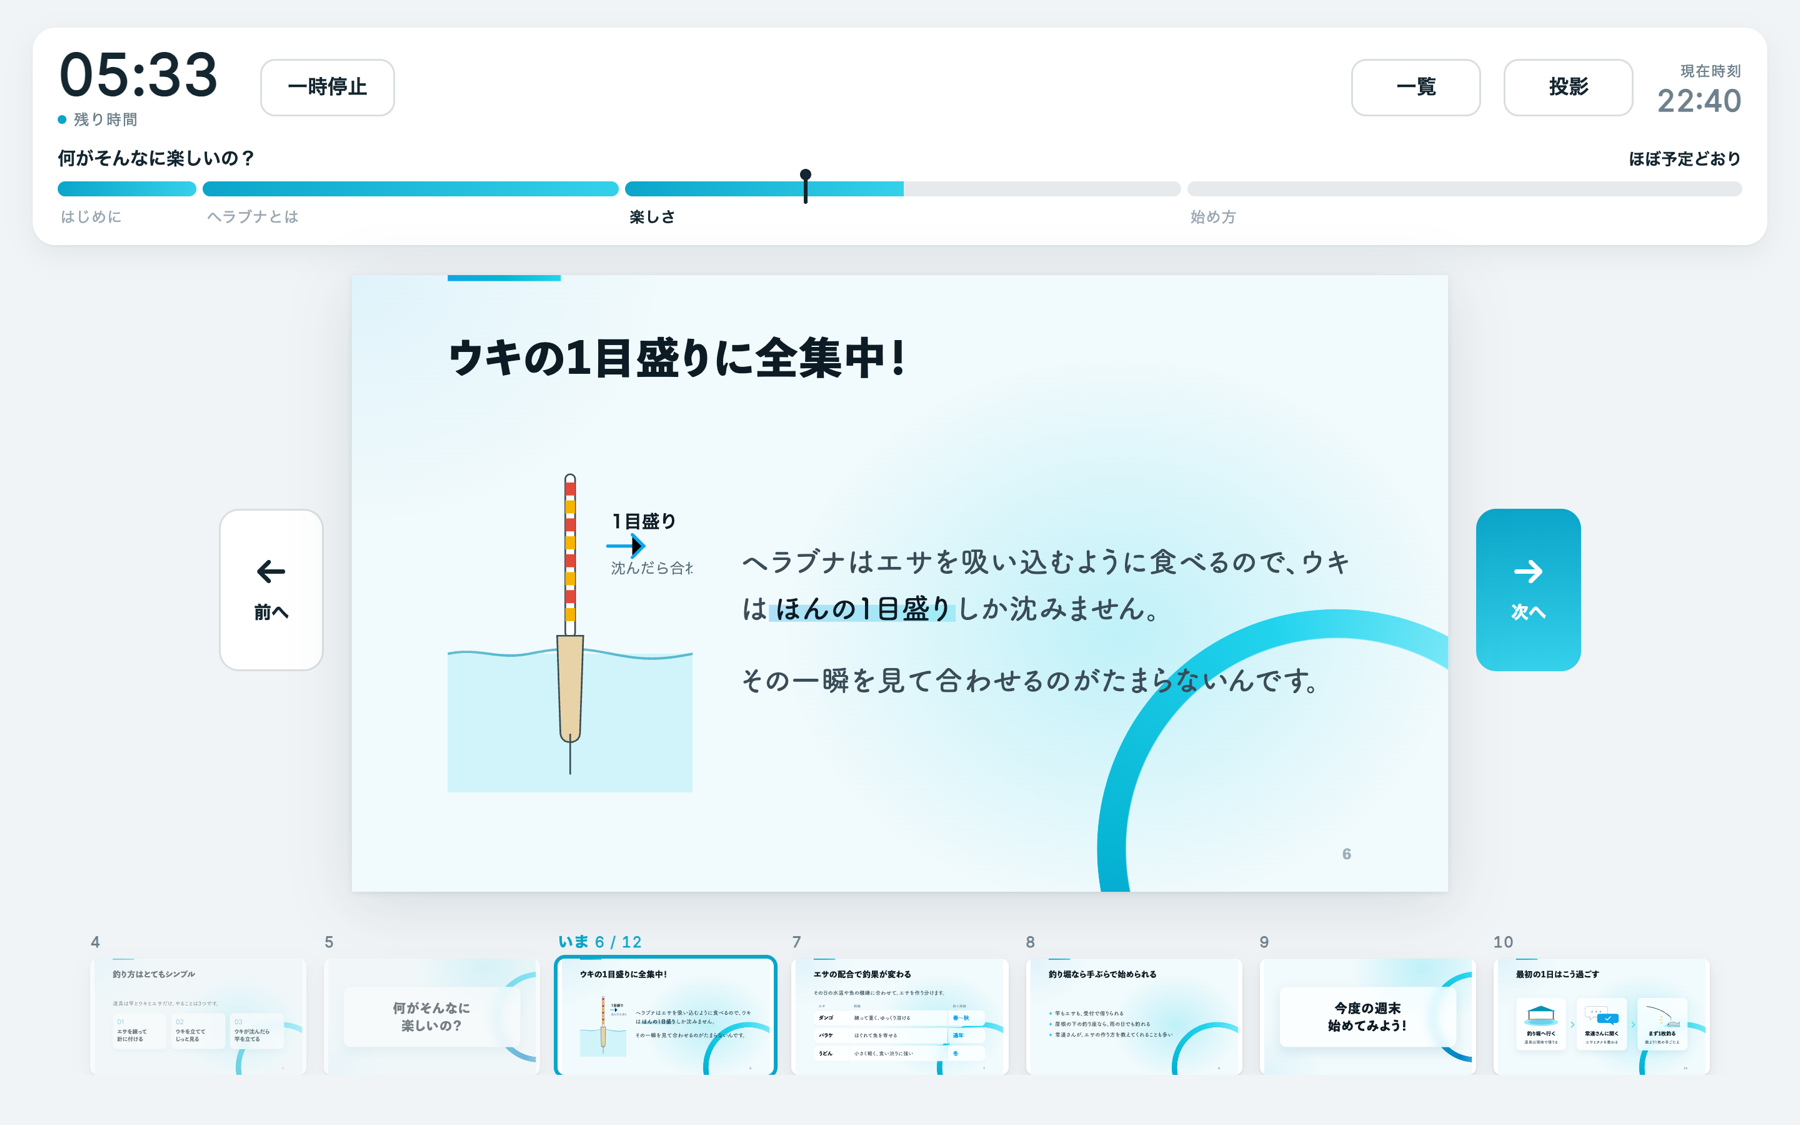
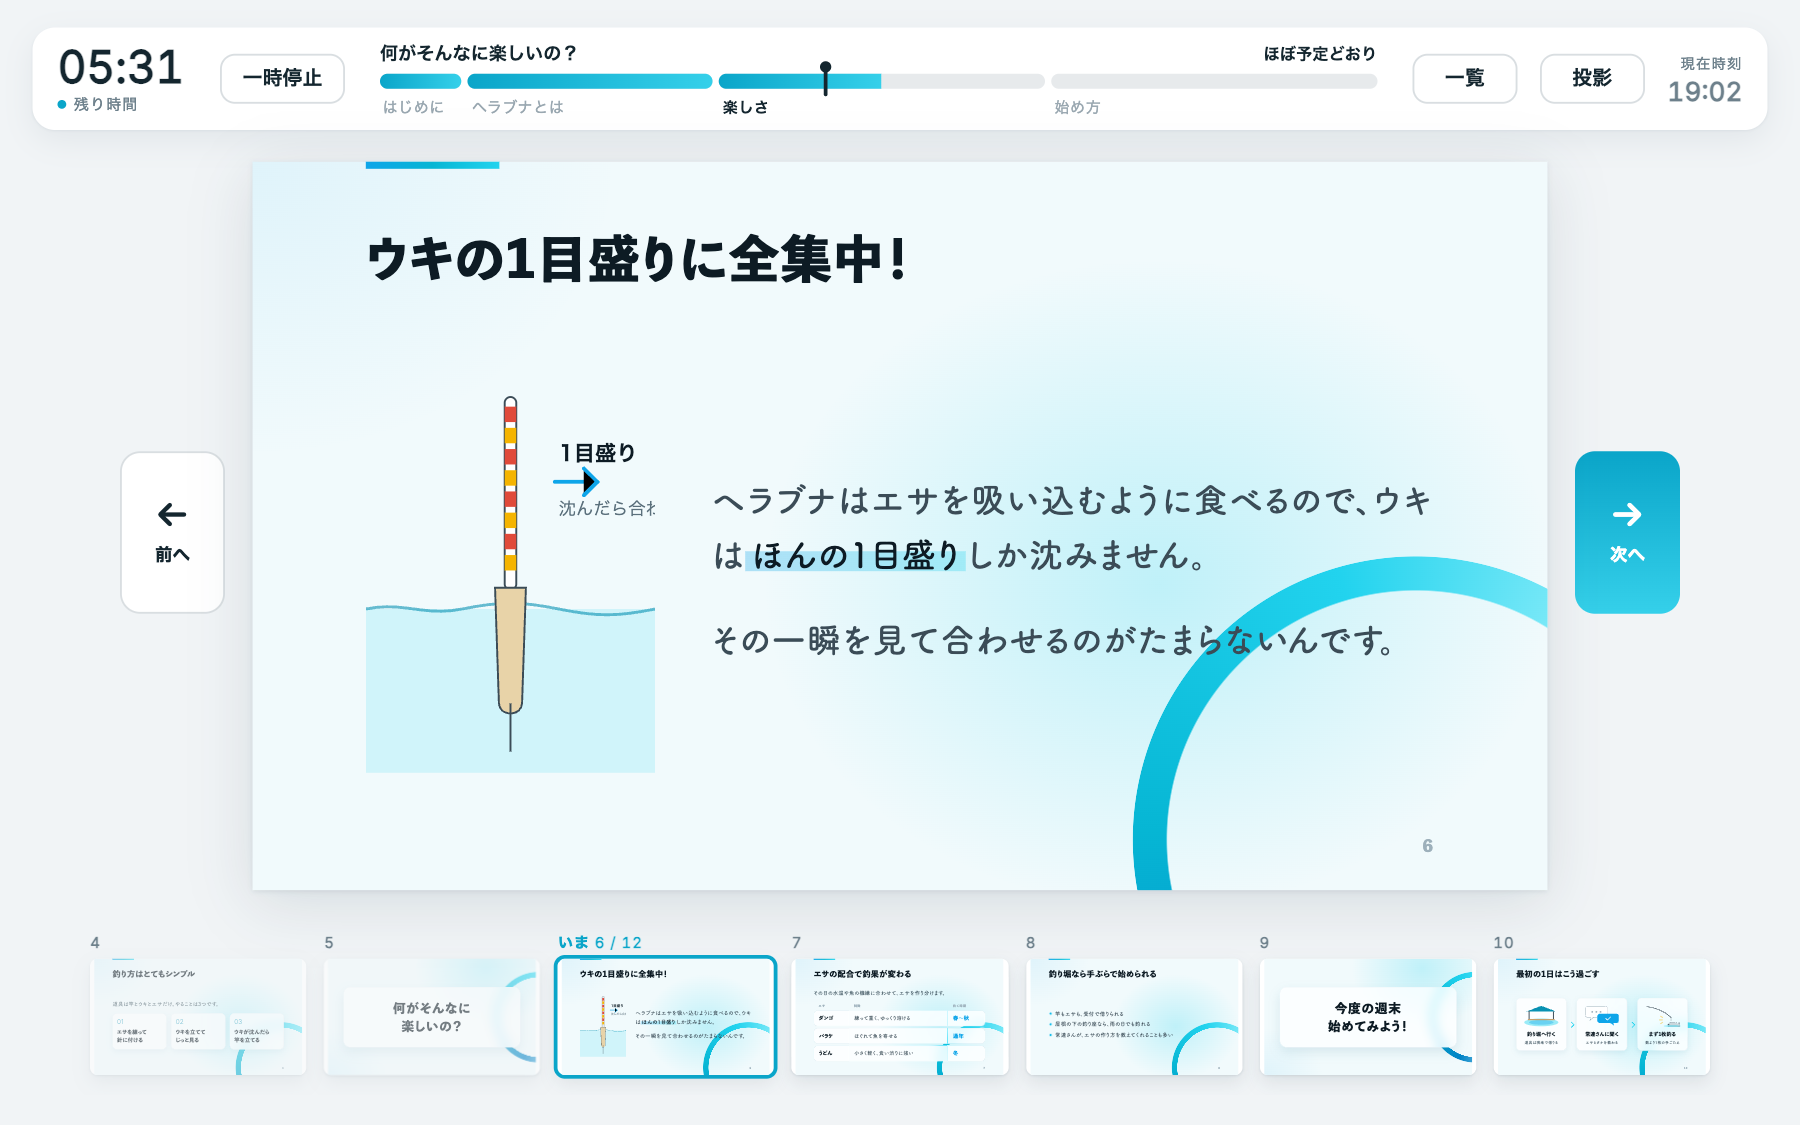
投影を押すたび投影窓を今の版で開き直し、広い画面では上のパネルを1行に、スマホ縦持ちでは3段にする

diff --git a/presenter-view.js b/presenter-view.js
@@ -55,10 +55,10 @@
     const geo = scr ? `,left=${scr.availLeft},top=${scr.availTop},width=${scr.availWidth},height=${scr.availHeight}` : ',width=1280,height=760';
     const w = window.open('', 'pv-audience', 'popup' + geo);
     if (!w) return null;
-    let blank = true;
-    try { blank = w.location.href === 'about:blank'; } catch {}
-    if (blank) w.location.href = pageUrl('', page);
-    else if (scr) { try { w.moveTo(scr.availLeft, scr.availTop); w.resizeTo(scr.availWidth, scr.availHeight); } catch {} }
+    /* 開いたままの投影窓が残っていても、押すたびに今の版・今のページ・今の同期キーで開き直す。
+       使い回すと、発表中に資料を差し替えたとき投影窓だけ古い版のまま残り、同じページ番号でも違うスライドが映る */
+    w.location.href = pageUrl('', page);
+    if (scr) { try { w.moveTo(scr.availLeft, scr.availTop); w.resizeTo(scr.availWidth, scr.availHeight); } catch {} }
     // 開いた直後は Chrome が押した側の窓を前面に戻すので、クリックの効力が残っているうちに何度か投影画面の窓を前へ出す
     // （出さないと、次の Enter が操作画面に届いて全画面にならない）
     w.focus();
@@ -381,10 +381,29 @@ button.pv-nav:active{transform:scale(.985)}
 /* ── 配置：上にパネル（2段）、中央に今のページとその左右に送りボタン、下に前後のページの帯。余白を残して詰めない ── */
 body[data-bespoke-view=presenter][data-pv] .bespoke-marp-presenter-container{grid-template:"head head head head head" auto ". navp current navn ." minmax(0,1fr) "strip strip strip strip strip" clamp(96px,12.5vh,150px) "note note note note note" auto / minmax(0,1fr) auto var(--pv-cw,minmax(0,6fr)) auto minmax(0,1fr);column-gap:12px}
 #pv-head{display:grid;grid-template:"time tools" auto "map map" auto / minmax(0,1fr) auto;gap:12px 20px;padding:14px 20px}
+/* 広い画面では上のパネルを1行（残り時間｜進み具合｜一覧・投影・現在時刻）にして、その分スライドを縦に大きくする。
+   2段のままだとノートPCの1画面でスライドが小さくなる。狭い幅は2段・3段のまま */
+@media (min-width:1000px){
+#pv-head{grid-template:"time map tools" auto / auto minmax(0,1fr) auto;align-items:center;gap:0 28px;padding:10px 20px}
+.pv-clock{min-width:118px;gap:3px}
+.pv-remain{font-size:36px}
+#pv-head button.pv-b{padding:10px 18px;min-width:84px}
+.pv-map{gap:5px}
+.pv-wall b{font-size:21px}
+}
 /* 送りボタン：今のページのすぐ左に「前へ」、すぐ右に「次へ」（帯・矢印キーと同じ向き） */
 #pv-nav{display:contents}
 button.pv-nav.pv-prev{grid-area:navp}
 button.pv-nav.pv-next{grid-area:navn}
+/* スマホの縦持ち：残り時間と「一覧・投影・現在時刻」が1行に収まらず重なるので、
+   上のパネルを3段にし、2段目にボタンと現在時刻を幅いっぱいに並べる */
+@media (max-width:620px){
+body[data-bespoke-view=presenter][data-pv] .bespoke-marp-presenter-container{padding:14px 12px;gap:12px}
+#pv-head{grid-template:"time" auto "tools" auto "map" auto / minmax(0,1fr);gap:12px;padding:12px 14px}
+.pv-clock{min-width:0;flex:1}
+.pv-tools{gap:10px}
+#pv-head .pv-tools button.pv-b{flex:1;min-width:0;padding:11px 8px}
+}
 `;
   const style = document.createElement('style');
   style.textContent = css;
@@ -562,7 +581,8 @@ button.pv-nav.pv-next{grid-area:navn}
     const bw = innerW < 700 ? 54 : 84;                                // 細い窓ではボタンを細くして、今のページの幅を残す
     container.style.setProperty('--pv-bw', bw + 'px');
     const byWidth = innerW - (bw * u + colGap * 2) * 2;
-    container.style.setProperty('--pv-cw', Math.max(240, Math.round(Math.min(byHeight, byWidth))) + 'px');
+    // 下限はスマホの縦持ち（幅390）でも横にはみ出さない大きさにする（240 だと送りボタンと合わせて画面の幅を超える）
+    container.style.setProperty('--pv-cw', Math.max(160, Math.round(Math.min(byHeight, byWidth))) + 'px');
     const ss = getComputedStyle(strip);
     const w = strip.clientWidth, h = strip.clientHeight - parseFloat(ss.paddingTop) - parseFloat(ss.paddingBottom);
     if (!w || !h) return;
